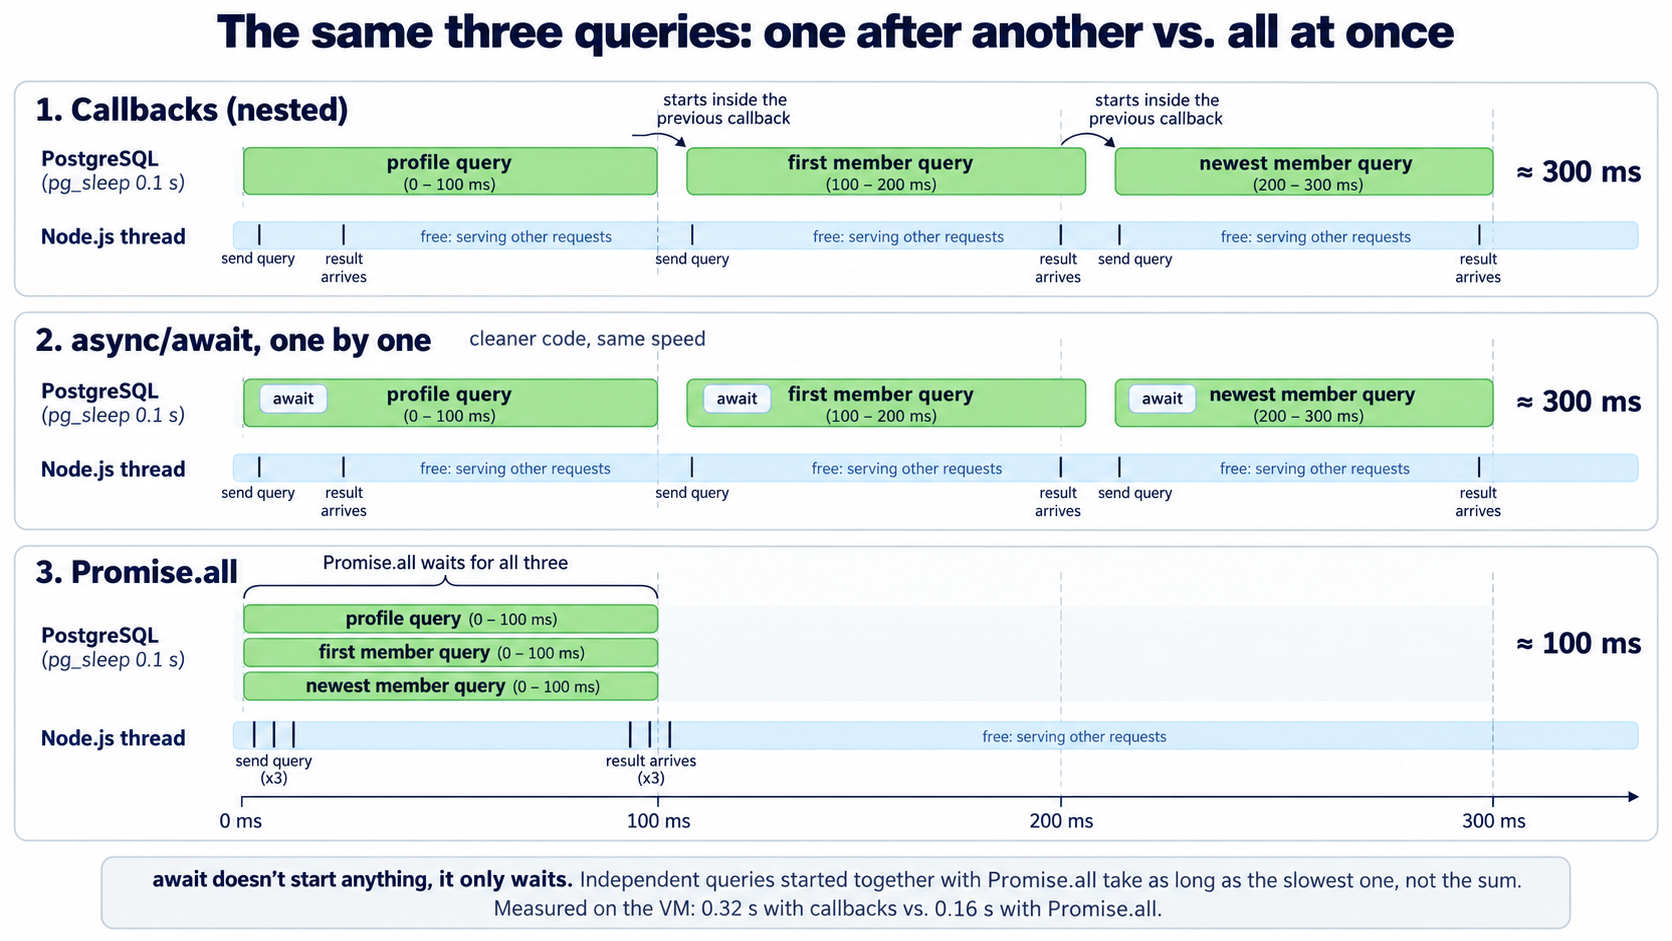
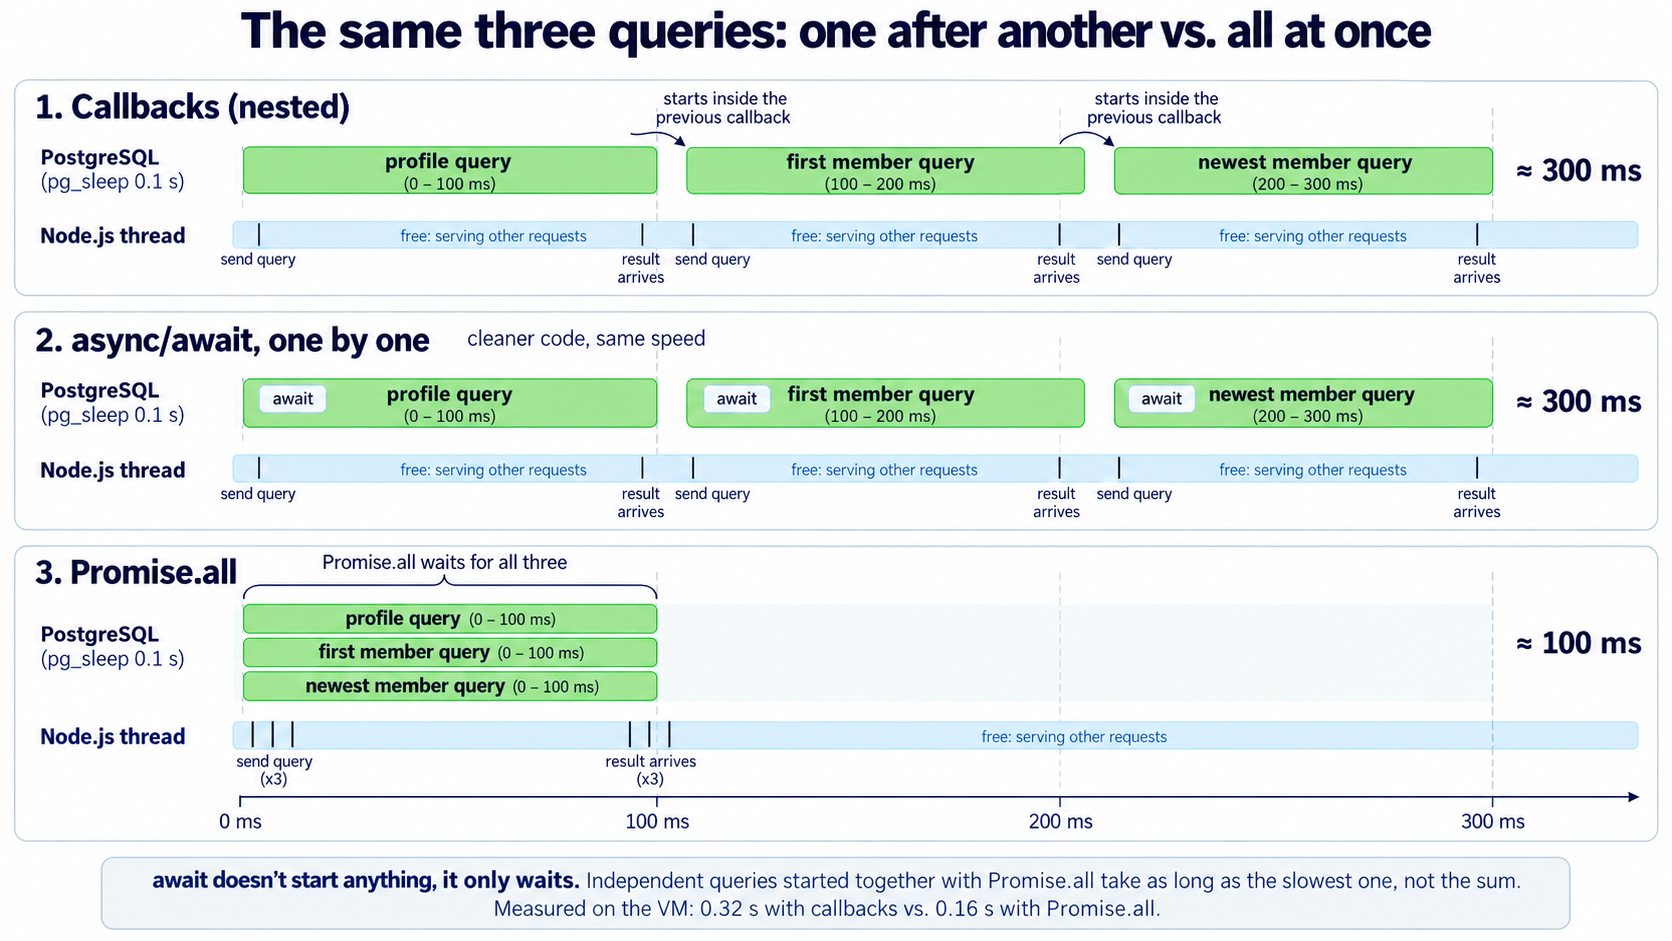
Lab 2: attach the corrected sequential-vs-parallel diagram

diff --git a/labs/lab-02/README.md b/labs/lab-02/README.md
@@ -50,19 +50,7 @@ takes 200 ms, even if B doesn't need A's result. When queries are independent, s
 const [a, b] = await Promise.all([queryA(), queryB()]);   // about 100 ms
 ```
 
-> **DIAGRAM PLACEHOLDER** `images/sequential-vs-parallel.png` (priority: high)
->
-> - **Title:** The same three queries: one after another vs. all at once
-> - **Type:** timeline (Gantt-style), three stacked panels sharing one time axis from 0 to 300 ms
-> - **Show:**
->   - A horizontal time axis at the bottom: `0 ms`, `100 ms`, `200 ms`, `300 ms`.
->   - **Panel 1, "Callbacks (nested)":** three bars placed end to end: `profile query` (0–100 ms), `first member query` (100–200 ms), `newest member query` (200–300 ms). Small curved arrows between them labeled "starts inside the previous callback". Total on the right: `≈ 300 ms`.
->   - **Panel 2, "async/await, one by one":** the same three bars end to end, labeled with `await` at each start. Total: `≈ 300 ms`. A note: "cleaner code, same speed".
->   - **Panel 3, "Promise.all":** the three bars stacked vertically, all spanning 0–100 ms (they overlap in time). A bracket over them: `Promise.all waits for all three`. Total: `≈ 100 ms`.
->   - Under each panel, a thin lane labeled `Node.js thread` that is almost empty: only tiny tick marks where a query is sent and where a result arrives, the rest labeled "free: serving other requests". This shows that waiting for the database doesn't occupy the thread.
->   - Each query bar sits on a lane labeled `PostgreSQL (pg_sleep 0.1 s)`, to show the waiting happens in the database, not in Node.
-> - **Takeaway (caption under the image):** `await` doesn't start anything, it only waits. Independent queries started together with `Promise.all` take as long as the slowest one, not the sum. Measured on the VM: 0.32 s with callbacks vs. 0.16 s with `Promise.all`.
-> - **Style:** match `images/Async Node.js Architecture Diagram.png`: use the dashboard's green for the query bars, light blue for the Node.js thread lane.
+![Timeline of three 100 ms queries: with nested callbacks or one-by-one await they take about 300 ms; with Promise.all they overlap and take about 100 ms, while the Node.js thread stays free](images/sequential-vs-parallel.png)
 
 ### Too much at once: concurrency limits
 
